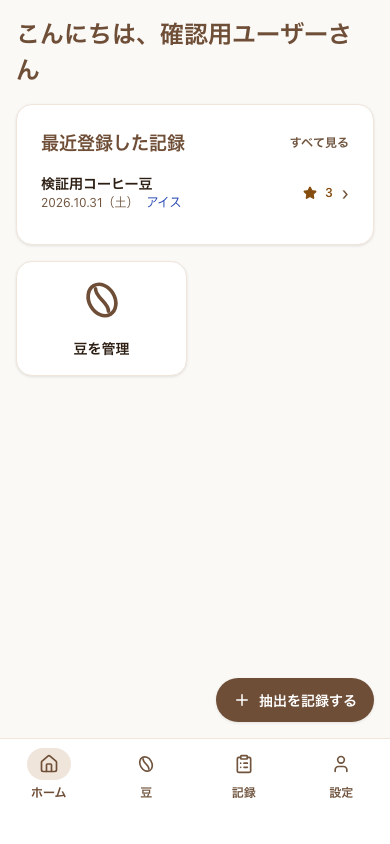
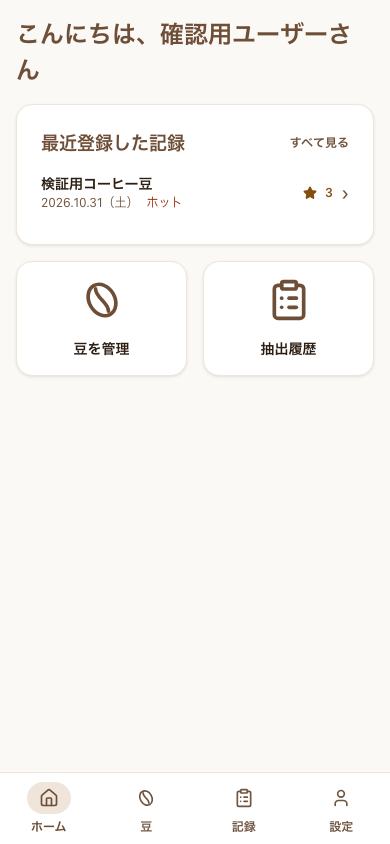
Place Brewlog history shortcut beside beans

diff --git a/apps/brewlog/src/pages/Home.tsx b/apps/brewlog/src/pages/Home.tsx
@@ -8,14 +8,12 @@ import {
   formatDisplayDate,
 } from "@yahatapp/ui";
 import styles from "./content.module.css";
-import homeStyles from "./home.module.css";
 import { Link } from "react-router-dom";
 import { useQuery } from "@tanstack/react-query";
-import { Plus, Star } from "lucide-react";
+import { ClipboardList, Star } from "lucide-react";
 import { useLiff } from "../hooks/useLiff";
 import { logQueries, type BrewLog } from "@/lib/queries";
 import { CoffeeBeansIcon } from "../components/ui/CoffeeBeansIcon";
-import { Button } from "../components/ui/button";
 import { Card, CardContent } from "../components/ui/card";
 const Home = () => {
   const { profile } = useLiff();
@@ -25,7 +23,7 @@ const Home = () => {
   });
   const recentLogs = logsQuery.data ?? [];
   return (
-    <div className={[styles.stack, homeStyles.page].join(" ")}>
+    <div className={styles.stack}>
       <PageHeading className={[styles.hero, styles.strong, styles.accent].join(" ")}>
         こんにちは、{profile?.displayName || "ゲスト"}さん
       </PageHeading>
@@ -110,7 +108,7 @@ const Home = () => {
       </Card>
 
       <section className={styles.tiles}>
-        <Link to={"/beans"} className={styles.entryLink}>
+        <Link to="/beans" className={styles.entryLink}>
           <Card>
             <div className={[styles.content, styles.stack, styles.center].join(" ")}>
               <CoffeeBeansIcon size="lg" className={styles.tileIcon} aria-hidden="true" />
@@ -118,13 +116,15 @@ const Home = () => {
             </div>
           </Card>
         </Link>
-      </section>
-      <Button asChild className={homeStyles.recordAction}>
-        <Link to="/logs/new">
-          <Plus size={18} aria-hidden="true" />
-          抽出を記録する
+        <Link to="/logs" className={styles.entryLink}>
+          <Card>
+            <div className={[styles.content, styles.stack, styles.center].join(" ")}>
+              <ClipboardList className={styles.tileIcon} aria-hidden="true" />
+              <span className={[styles.body, styles.strong].join(" ")}>抽出履歴</span>
+            </div>
+          </Card>
         </Link>
-      </Button>
+      </section>
     </div>
   );
 };
